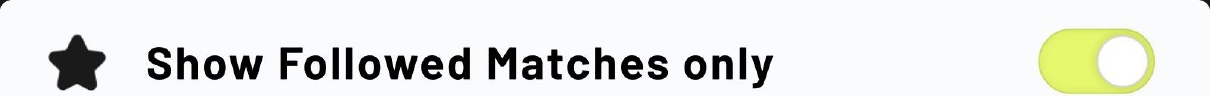
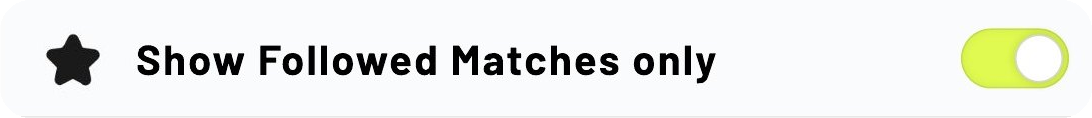
OneFootball: journeys as numbered step-by-step screens, clean toggle card
Claude-Session: https://claude.ai/code/session_015LKG3Tq4LKskHBBKFgUf6P

diff --git a/work/onefootball.html b/work/onefootball.html
@@ -22,7 +22,7 @@
 <link rel="preconnect" href="https://fonts.googleapis.com">
 <link rel="preconnect" href="https://fonts.gstatic.com" crossorigin>
 <link rel="stylesheet" href="https://fonts.googleapis.com/css2?family=Young+Serif&family=Instrument+Sans:ital,wght@0,400..700;1,400..700&display=swap">
-<link rel="stylesheet" href="../css/case.css?v=20261110141756">
+<link rel="stylesheet" href="../css/case.css?v=20261110151341">
 <script>(function () { try { var t = localStorage.getItem('ad-theme'); if (t === 'light' || t === 'dark') document.documentElement.setAttribute('data-theme', t); } catch (e) {} })();</script>
 </head>
 <body>
@@ -59,7 +59,7 @@
     <div class="wrap"><div class="sec-head"><p class="eyebrow">Context</p><h2>What is OneFootball?</h2></div><div class="stack"><div class="prose"><p>OneFootball is a popular mobile app for football fans like me. It covers everything football: news, live scores, highlights, statistics and reports from 200+ leagues in 12 languages.</p><p class="muted">This case study breaks down one of the most loved football apps to understand why it works and to offer my take on improving the experience. To suggest changes, it helps to understand why certain decisions were made in the first place. As a regular user, I admire how simple it is to navigate and how well it delivers on its promise with great visual design.</p></div><figure class="shot "><img src="../img/of-brand.jpg" width="2400" height="1372" alt="OneFootball website on a desktop and laptop" loading="lazy" decoding="async"></figure></div></div>
   </section>
   <section class="sec">
-    <div class="wrap"><div class="sec-head"><p class="eyebrow">Current experience</p><h2>Navigation and user journeys</h2><p class="muted">I mapped three common goals to see how many steps each one takes.</p></div><div class="stack"><div class="sub"><h3>Goal 1: Look up your club’s next fixtures</h3></div><figure class="shot ink"><img src="../img/of-goal1.jpg" width="2400" height="1025" alt="Three screens from home to the club page to the fixtures list" loading="lazy" decoding="async"><figcaption>Home, then club page, then the fixtures list: three steps.</figcaption></figure><div class="sub"><h3>Goal 2: Find the result of a match from over a week ago</h3></div><figure class="shot ink"><img src="../img/of-goal2a.jpg" width="2400" height="1010" alt="Four screens from home to the matches tab, the calendar and the chosen date" loading="lazy" decoding="async"><figcaption>Home, Matches, the calendar, then the right date.</figcaption></figure><figure class="shot ink narrow"><img src="../img/of-goal2b.jpg" width="2400" height="2120" alt="Match overview and match stats screens" loading="lazy" decoding="async"><figcaption>The match overview, then detailed stats.</figcaption></figure><div class="sub"><h3>Goal 3: Compare a player’s current stats and all-time record</h3></div><figure class="shot ink"><img src="../img/of-goal3.jpg" width="2400" height="1035" alt="Four screens from the club page to the squad, the player overview and career history" loading="lazy" decoding="async"><figcaption>Club, squad, player overview, then career history.</figcaption></figure></div></div>
+    <div class="wrap"><div class="sec-head"><p class="eyebrow">Current experience</p><h2>Navigation and user journeys</h2><p class="muted">I mapped three common goals to see how many steps each one takes.</p></div><div class="stack"><div class="subhead"><p class="eyebrow">Goal 1</p><h3>Look up your club’s next fixtures</h3><p></p></div><div class="sflow-wrap"><ol class="sflow" style="--n:3"><li><span class="sf-n">1</span><img src="../img/of-s3767.jpg" width="600" height="1301" alt="Step 1: Open the app" loading="lazy" decoding="async"><p>Open the app</p></li><li><span class="sf-n">2</span><img src="../img/of-s3768.jpg" width="600" height="1301" alt="Step 2: Tap your club" loading="lazy" decoding="async"><p>Tap your club</p></li><li><span class="sf-n">3</span><img src="../img/of-s3770.jpg" width="600" height="1301" alt="Step 3: Open Matches" loading="lazy" decoding="async"><p>Open Matches</p></li></ol><p class="sf-total"><b>3 steps</b></p></div><div class="subhead"><p class="eyebrow">Goal 2</p><h3>Find the result of a match from over a week ago</h3><p></p></div><div class="sflow-wrap"><ol class="sflow" style="--n:6"><li><span class="sf-n">1</span><img src="../img/of-s3767.jpg" width="600" height="1301" alt="Step 1: Open the app" loading="lazy" decoding="async"><p>Open the app</p></li><li><span class="sf-n">2</span><img src="../img/of-s3771.jpg" width="600" height="1301" alt="Step 2: Go to Matches" loading="lazy" decoding="async"><p>Go to Matches</p></li><li><span class="sf-n">3</span><img src="../img/of-s3772.jpg" width="600" height="1301" alt="Step 3: Open the calendar" loading="lazy" decoding="async"><p>Open the calendar</p></li><li><span class="sf-n">4</span><img src="../img/of-s3773.jpg" width="600" height="1301" alt="Step 4: Pick the date" loading="lazy" decoding="async"><p>Pick the date</p></li><li><span class="sf-n">5</span><img src="../img/of-s3774.jpg" width="600" height="1301" alt="Step 5: Open the match" loading="lazy" decoding="async"><p>Open the match</p></li><li><span class="sf-n">6</span><img src="../img/of-s3775.jpg" width="600" height="1301" alt="Step 6: See the stats" loading="lazy" decoding="async"><p>See the stats</p></li></ol><p class="sf-total"><b>6 steps</b></p></div><div class="subhead"><p class="eyebrow">Goal 3</p><h3>Compare a player’s current stats and all-time record</h3><p></p></div><div class="sflow-wrap"><ol class="sflow" style="--n:4"><li><span class="sf-n">1</span><img src="../img/of-s3768.jpg" width="600" height="1301" alt="Step 1: Open your club" loading="lazy" decoding="async"><p>Open your club</p></li><li><span class="sf-n">2</span><img src="../img/of-s3776.jpg" width="600" height="1301" alt="Step 2: Go to Squad" loading="lazy" decoding="async"><p>Go to Squad</p></li><li><span class="sf-n">3</span><img src="../img/of-s3777.jpg" width="600" height="1301" alt="Step 3: Pick the player" loading="lazy" decoding="async"><p>Pick the player</p></li><li><span class="sf-n">4</span><img src="../img/of-s3778.jpg" width="600" height="1301" alt="Step 4: Open Career" loading="lazy" decoding="async"><p>Open Career</p></li></ol><p class="sf-total"><b>4 steps</b></p></div></div></div>
   </section>
   <section class="band">
     <div class="wrap"><div class="sec-head"><p class="eyebrow">Analysis</p><h2>What works and what doesn’t</h2></div><div class="pc"><div class="pro"><h3>Pros</h3><ul><li>Free for everyone to use.</li><li>No sign-up needed. You can get to your goal as soon as the app opens.</li><li>Intuitive flows. Most goals take about 3 steps, which helps explain its 100M+ monthly active users.</li><li>Mature categorisation and hierarchy that reveals information progressively.</li><li>Meets accessibility standards, with support from desktops to smartwatches.</li><li>All the detailed information and reports a fan needs, in one place.</li></ul></div><div class="con"><h3>Cons</h3><ul><li>Long loading times due to graphics and ads.</li><li>Scrolling bugs make the list refresh and jump back to the top.</li><li>Ad placement and quality are questionable, and ads don’t always work.</li><li>Reliance on individual contributors means some articles aren’t credible and have spelling mistakes.</li><li>Content sometimes fails to load, leaving a large blank space you can’t interact with.</li><li>The video player lags and sometimes stops working altogether.</li></ul></div></div></div>
@@ -71,7 +71,7 @@
     <div class="wrap"><div class="sec-head"><p class="eyebrow">Redesign</p><h2>News</h2><p class="muted">As a fan, I want to skim the latest about my club in a few seconds, so I can stay up to date between everything else.</p></div><div class="stack"><div class="ba-wrap"><div class="ba" style="--pos:50%"><img class="ba-new" src="../img/of-n-new.jpg" width="1097" height="2408" alt="Proposed news feed with consistent small and large cards" loading="lazy"><div class="ba-old"><img src="../img/of-n-cur.jpg" width="1097" height="2408" alt="Current OneFootball news feed" loading="lazy"></div><span class="ba-line" aria-hidden="true"><span class="ba-knob"><svg viewBox="0 0 24 24" fill="none" stroke="currentColor" stroke-width="2.4" stroke-linecap="round" stroke-linejoin="round"><path d="M9 6l-5 6 5 6M15 6l5 6-5 6"/></svg></span></span><span class="ba-lab l">Current</span><span class="ba-lab r">Proposed</span><input class="ba-range" type="range" min="0" max="100" value="50" aria-label="Compare the current and proposed design"></div><p class="hint"><svg width="16" height="16" viewBox="0 0 24 24" fill="none" stroke="currentColor" stroke-width="2" stroke-linecap="round" stroke-linejoin="round" aria-hidden="true"><path d="M9 11V5.5a1.5 1.5 0 0 1 3 0V10m0-1.5a1.5 1.5 0 0 1 3 0V11m0-1a1.5 1.5 0 0 1 3 0v4.5a6 6 0 0 1-6 6h-.6a6 6 0 0 1-4.6-2.2L4.6 15a1.5 1.5 0 0 1 2.3-2L9 15"/></svg><span>Drag across the screen to compare current and proposed</span></p></div><div class="subhead"><p class="eyebrow">Information hierarchy</p><h3>Headline first, details after</h3><p>Small and large cards now follow the same order, so the eye always knows where to go.</p></div><ol class="order"><li><b>Headline</b><span>What people look for first.</span></li><li><b>Publisher and time</b><span>Signals credibility and freshness.</span></li><li><b>Share</b><span>Always in the same spot, so it is quick to find.</span></li></ol><div class="subhead"><p class="eyebrow">What changed</p><h3>Two cards, built for scanning</h3><p>Each card type follows how people read a feed.</p></div><ul class="chgs"><li class="chg"><div class="chg-img"><img src="../img/of-n-small.png" width="1029" height="405" alt="Small card: Image left, headline right" loading="lazy"></div><div class="chg-txt"><p class="eyebrow">Small card</p><h3>Image left, headline right</h3><p>People scan a feed from the top left. The image anchors the eye and the headline follows naturally.</p></div></li><li class="chg"><div class="chg-img"><img src="../img/of-n-large.jpg" width="1031" height="1135" alt="Large card: Big image on top" loading="lazy"></div><div class="chg-txt"><p class="eyebrow">Large card</p><h3>Big image on top</h3><p>A large image draws the eye first, then the headline and source. It suits how people scan big, visual stories.</p></div></li></ul></div></div>
   </section>
   <section class="sec">
-    <div class="wrap"><div class="sec-head"><p class="eyebrow">Redesign</p><h2>Matches</h2><p class="muted">As a fan, I want to see when my team plays and how it is going at a glance, so I never miss a match.</p></div><div class="stack"><div class="ba-wrap"><div class="ba" style="--pos:50%"><img class="ba-new" src="../img/of-m-new.jpg" width="1098" height="2407" alt="Proposed matches list with horizontal cards and a followed-only switch" loading="lazy"><div class="ba-old"><img src="../img/of-m-cur.jpg" width="1098" height="2407" alt="Current OneFootball matches list" loading="lazy"></div><span class="ba-line" aria-hidden="true"><span class="ba-knob"><svg viewBox="0 0 24 24" fill="none" stroke="currentColor" stroke-width="2.4" stroke-linecap="round" stroke-linejoin="round"><path d="M9 6l-5 6 5 6M15 6l5 6-5 6"/></svg></span></span><span class="ba-lab l">Current</span><span class="ba-lab r">Proposed</span><input class="ba-range" type="range" min="0" max="100" value="50" aria-label="Compare the current and proposed design"></div><p class="hint"><svg width="16" height="16" viewBox="0 0 24 24" fill="none" stroke="currentColor" stroke-width="2" stroke-linecap="round" stroke-linejoin="round" aria-hidden="true"><path d="M9 11V5.5a1.5 1.5 0 0 1 3 0V10m0-1.5a1.5 1.5 0 0 1 3 0V11m0-1a1.5 1.5 0 0 1 3 0v4.5a6 6 0 0 1-6 6h-.6a6 6 0 0 1-4.6-2.2L4.6 15a1.5 1.5 0 0 1 2.3-2L9 15"/></svg><span>Drag across the screen to compare current and proposed</span></p></div><div class="subhead"><p class="eyebrow">What changed</p><h3>Find your match, read it at a glance</h3><p>Three changes that cut the searching and the scanning.</p></div><ul class="chgs three"><li class="chg"><div class="chg-img"><img src="../img/of-m-fav.png" width="272" height="120" alt="Date picker: A heart on match days" loading="lazy" style="width:150px"></div><div class="chg-txt"><p class="eyebrow">Date picker</p><h3>A heart on match days</h3><p>Shows at a glance which days your team plays, so you never have to search for them.</p></div></li><li class="chg"><div class="chg-img"><img src="../img/of-m-switch.png" width="1210" height="96" alt="Filter: Followed matches first" loading="lazy"></div><div class="chg-txt"><p class="eyebrow">Filter</p><h3>Followed matches first</h3><p>A switch shows only the matches you follow. It starts on, so the most relevant games come first.</p></div></li><li class="chg"><div class="chg-img"><img src="../img/of-m-states.png" width="1098" height="729" alt="Match card: One card, three states" loading="lazy"></div><div class="chg-txt"><p class="eyebrow">Match card</p><h3>One card, three states</h3><p>Teams sit side by side. Before kick-off the time stands out, during the match the leading score is bold and the minute is red, and at the end the winner is highlighted.</p></div></li></ul></div></div>
+    <div class="wrap"><div class="sec-head"><p class="eyebrow">Redesign</p><h2>Matches</h2><p class="muted">As a fan, I want to see when my team plays and how it is going at a glance, so I never miss a match.</p></div><div class="stack"><div class="ba-wrap"><div class="ba" style="--pos:50%"><img class="ba-new" src="../img/of-m-new.jpg" width="1098" height="2407" alt="Proposed matches list with horizontal cards and a followed-only switch" loading="lazy"><div class="ba-old"><img src="../img/of-m-cur.jpg" width="1098" height="2407" alt="Current OneFootball matches list" loading="lazy"></div><span class="ba-line" aria-hidden="true"><span class="ba-knob"><svg viewBox="0 0 24 24" fill="none" stroke="currentColor" stroke-width="2.4" stroke-linecap="round" stroke-linejoin="round"><path d="M9 6l-5 6 5 6M15 6l5 6-5 6"/></svg></span></span><span class="ba-lab l">Current</span><span class="ba-lab r">Proposed</span><input class="ba-range" type="range" min="0" max="100" value="50" aria-label="Compare the current and proposed design"></div><p class="hint"><svg width="16" height="16" viewBox="0 0 24 24" fill="none" stroke="currentColor" stroke-width="2" stroke-linecap="round" stroke-linejoin="round" aria-hidden="true"><path d="M9 11V5.5a1.5 1.5 0 0 1 3 0V10m0-1.5a1.5 1.5 0 0 1 3 0V11m0-1a1.5 1.5 0 0 1 3 0v4.5a6 6 0 0 1-6 6h-.6a6 6 0 0 1-4.6-2.2L4.6 15a1.5 1.5 0 0 1 2.3-2L9 15"/></svg><span>Drag across the screen to compare current and proposed</span></p></div><div class="subhead"><p class="eyebrow">What changed</p><h3>Find your match, read it at a glance</h3><p>Three changes that cut the searching and the scanning.</p></div><ul class="chgs three"><li class="chg"><div class="chg-img"><img src="../img/of-m-fav.png" width="272" height="120" alt="Date picker: A heart on match days" loading="lazy" style="width:150px"></div><div class="chg-txt"><p class="eyebrow">Date picker</p><h3>A heart on match days</h3><p>Shows at a glance which days your team plays, so you never have to search for them.</p></div></li><li class="chg"><div class="chg-img"><img src="../img/of-m-switch.png" width="1092" height="118" alt="Filter: Followed matches first" loading="lazy"></div><div class="chg-txt"><p class="eyebrow">Filter</p><h3>Followed matches first</h3><p>A switch shows only the matches you follow. It starts on, so the most relevant games come first.</p></div></li><li class="chg"><div class="chg-img"><img src="../img/of-m-states.png" width="1098" height="729" alt="Match card: One card, three states" loading="lazy"></div><div class="chg-txt"><p class="eyebrow">Match card</p><h3>One card, three states</h3><p>Teams sit side by side. Before kick-off the time stands out, during the match the leading score is bold and the minute is red, and at the end the winner is highlighted.</p></div></li></ul></div></div>
   </section>
   <section class="sec">
     <div class="wrap"><div class="sec-head"><p class="eyebrow">Conclusion</p><h2>A great product, still evolving</h2></div><div class="prose"><p>I’ve used OneFootball every day since 2015. For millions of fans like me, its strengths far outweigh its weaknesses. As the product evolves, I’d focus next on performance, personalisation and user behaviour. The visual design, with its bold colours and typefaces, is already excellent.</p><p class="muted">Kudos to the design and development team for their user-oriented goals (pun intended).</p></div></div>
@@ -94,6 +94,6 @@
     <span class="meta">Built on Naturalé Design System</span>
   </div>
 </footer>
-<script src="../js/case.js?v=20261110141756"></script>
+<script src="../js/case.js?v=20261110151341"></script>
 </body>
 </html>

diff --git a/css/case.css b/css/case.css
@@ -616,3 +616,19 @@ footer .wrap { display: flex; flex-wrap: wrap; justify-content: space-between; g
 .time { display: grid; gap: 6px; justify-items: start; }
 .time b { color: var(--moss); }
 .time span { font-size: var(--step-0); font-weight: 500; color: var(--bark); }
+
+/* step-by-step journeys */
+.subhead p:empty { display: none; }
+.sflow-wrap { display: grid; justify-items: center; gap: 14px; width: 100%; }
+.sflow { list-style: none; margin: 0; padding: 8px 4px 4px; display: grid; grid-auto-flow: column; grid-auto-columns: minmax(150px, 210px); gap: clamp(20px, 3vw, 44px); justify-content: center; max-width: 100%; overflow-x: auto; scroll-snap-type: x mandatory; scrollbar-width: none; }
+.sflow::-webkit-scrollbar { display: none; }
+.sflow li { position: relative; display: grid; justify-items: center; gap: 12px; scroll-snap-align: center; }
+.sflow li + li::before { content: ""; position: absolute; top: 14px; right: calc(50% + 22px); width: calc(100% + clamp(20px, 3vw, 44px) - 44px); border-top: 1.5px dashed var(--sage); }
+.sf-n { position: relative; z-index: 1; display: grid; place-items: center; width: 28px; height: 28px; border-radius: 50%; background: var(--moss); color: #FFFDF8; font-size: .8125rem; font-weight: 600; }
+.sflow img { width: 100%; height: auto; border-radius: 22px; border: 1px solid var(--rule); box-shadow: 0 20px 36px -24px rgba(0, 0, 0, .45); background: #fff; }
+.sflow p { font-size: var(--step--1); line-height: var(--lh--1); color: var(--bark); text-align: center; max-width: 16ch; }
+.sf-total { font-size: var(--step--1); color: var(--bark-soft); }
+.sf-total b { display: inline-block; padding: 5px 12px; border-radius: 999px; background: var(--linen); color: var(--moss); font-weight: 600; }
+@media (max-width: 859px) {
+  .sflow { justify-content: start; grid-auto-columns: 62vw; width: calc(100% + 2 * max(16px, env(safe-area-inset-left, 0px))); margin-inline: calc(-1 * max(16px, env(safe-area-inset-left, 0px))); padding-inline: max(16px, env(safe-area-inset-left, 0px)); }
+}

diff --git a/work/naturale-ds.html b/work/naturale-ds.html
@@ -22,7 +22,7 @@
 <link rel="preconnect" href="https://fonts.googleapis.com">
 <link rel="preconnect" href="https://fonts.gstatic.com" crossorigin>
 <link rel="stylesheet" href="https://fonts.googleapis.com/css2?family=Young+Serif&family=Instrument+Sans:ital,wght@0,400..700;1,400..700&display=swap">
-<link rel="stylesheet" href="../css/case.css?v=20261110141756">
+<link rel="stylesheet" href="../css/case.css?v=20261110151341">
 <script>(function () { try { var t = localStorage.getItem('ad-theme'); if (t === 'light' || t === 'dark') document.documentElement.setAttribute('data-theme', t); } catch (e) {} })();</script>
 </head>
 <body>
@@ -98,7 +98,7 @@
     <span class="meta">Built on Naturalé Design System</span>
   </div>
 </footer>
-<script src="../js/case.js?v=20261110141756"></script>
+<script src="../js/case.js?v=20261110151341"></script>
 <script>
 (function () {
   var seg = document.getElementById('components-demo'); if (!seg) return;

diff --git a/work/delete-contact.html b/work/delete-contact.html
@@ -22,7 +22,7 @@
 <link rel="preconnect" href="https://fonts.googleapis.com">
 <link rel="preconnect" href="https://fonts.gstatic.com" crossorigin>
 <link rel="stylesheet" href="https://fonts.googleapis.com/css2?family=Young+Serif&family=Instrument+Sans:ital,wght@0,400..700;1,400..700&display=swap">
-<link rel="stylesheet" href="../css/case.css?v=20261110141756">
+<link rel="stylesheet" href="../css/case.css?v=20261110151341">
 <script>(function () { try { var t = localStorage.getItem('ad-theme'); if (t === 'light' || t === 'dark') document.documentElement.setAttribute('data-theme', t); } catch (e) {} })();</script>
 </head>
 <body>
@@ -88,6 +88,6 @@
     <span class="meta">Built on Naturalé Design System</span>
   </div>
 </footer>
-<script src="../js/case.js?v=20261110141756"></script>
+<script src="../js/case.js?v=20261110151341"></script>
 </body>
 </html>

diff --git a/work/in-class-notes.html b/work/in-class-notes.html
@@ -22,7 +22,7 @@
 <link rel="preconnect" href="https://fonts.googleapis.com">
 <link rel="preconnect" href="https://fonts.gstatic.com" crossorigin>
 <link rel="stylesheet" href="https://fonts.googleapis.com/css2?family=Young+Serif&family=Instrument+Sans:ital,wght@0,400..700;1,400..700&display=swap">
-<link rel="stylesheet" href="../css/case.css?v=20261110141756">
+<link rel="stylesheet" href="../css/case.css?v=20261110151341">
 <script>(function () { try { var t = localStorage.getItem('ad-theme'); if (t === 'light' || t === 'dark') document.documentElement.setAttribute('data-theme', t); } catch (e) {} })();</script>
 </head>
 <body>
@@ -88,6 +88,6 @@
     <span class="meta">Built on Naturalé Design System</span>
   </div>
 </footer>
-<script src="../js/case.js?v=20261110141756"></script>
+<script src="../js/case.js?v=20261110151341"></script>
 </body>
 </html>

diff --git a/work/natural-ds-v1.html b/work/natural-ds-v1.html
@@ -22,7 +22,7 @@
 <link rel="preconnect" href="https://fonts.googleapis.com">
 <link rel="preconnect" href="https://fonts.gstatic.com" crossorigin>
 <link rel="stylesheet" href="https://fonts.googleapis.com/css2?family=Young+Serif&family=Instrument+Sans:ital,wght@0,400..700;1,400..700&display=swap">
-<link rel="stylesheet" href="../css/case.css?v=20261110141756">
+<link rel="stylesheet" href="../css/case.css?v=20261110151341">
 <script>(function () { try { var t = localStorage.getItem('ad-theme'); if (t === 'light' || t === 'dark') document.documentElement.setAttribute('data-theme', t); } catch (e) {} })();</script>
 </head>
 <body>
@@ -88,6 +88,6 @@
     <span class="meta">Built on Naturalé Design System</span>
   </div>
 </footer>
-<script src="../js/case.js?v=20261110141756"></script>
+<script src="../js/case.js?v=20261110151341"></script>
 </body>
 </html>

diff --git a/work/trim-workout.html b/work/trim-workout.html
@@ -22,7 +22,7 @@
 <link rel="preconnect" href="https://fonts.googleapis.com">
 <link rel="preconnect" href="https://fonts.gstatic.com" crossorigin>
 <link rel="stylesheet" href="https://fonts.googleapis.com/css2?family=Young+Serif&family=Instrument+Sans:ital,wght@0,400..700;1,400..700&display=swap">
-<link rel="stylesheet" href="../css/case.css?v=20261110141756">
+<link rel="stylesheet" href="../css/case.css?v=20261110151341">
 <script>(function () { try { var t = localStorage.getItem('ad-theme'); if (t === 'light' || t === 'dark') document.documentElement.setAttribute('data-theme', t); } catch (e) {} })();</script>
 </head>
 <body>
@@ -88,6 +88,6 @@
     <span class="meta">Built on Naturalé Design System</span>
   </div>
 </footer>
-<script src="../js/case.js?v=20261110141756"></script>
+<script src="../js/case.js?v=20261110151341"></script>
 </body>
 </html>
